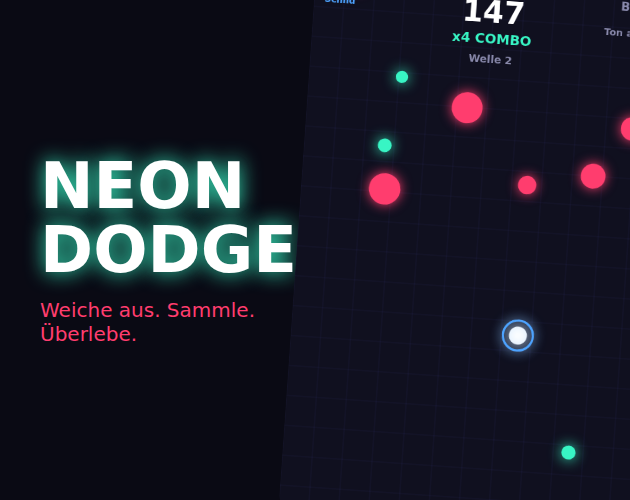
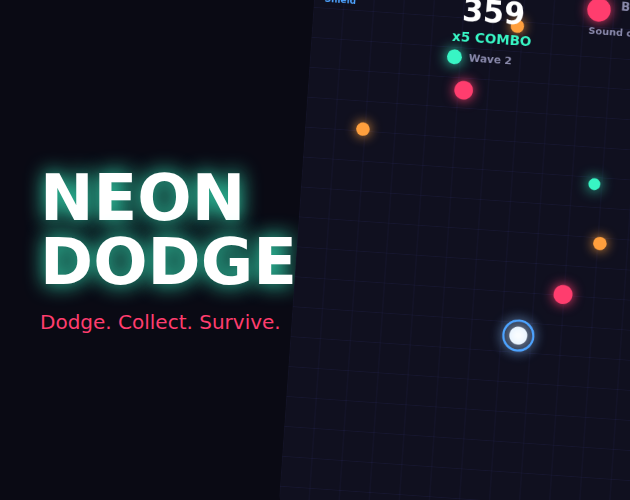
Translate game, cover and itch.io texts to English
Claude-Session: https://claude.ai/code/session_01E5rt3pWNQ4N5fdCaZqhZuK

diff --git a/index.html b/index.html
@@ -1,5 +1,5 @@
 <!doctype html>
-<html lang="de">
+<html lang="en">
 <head>
 <meta charset="utf-8">
 <meta name="viewport" content="width=device-width, initial-scale=1, user-scalable=no">
@@ -13,8 +13,8 @@
 <canvas id="c"></canvas>
 <script>
 "use strict";
-// Neon Dodge: weiche Gegnern aus, sammle Orbs, baue Combos auf.
-// Steuerung: Maus / Touch bewegt den Spieler, Pfeiltasten/WASD gehen auch.
+// Neon Dodge: dodge enemies, collect orbs, build combos.
+// Controls: mouse / touch moves the player, arrow keys/WASD work too.
 
 const W = 480, H = 720;                 // logische Spielgroesse
 const canvas = document.getElementById("c");
@@ -312,32 +312,32 @@ function draw() {
     text(String(Math.floor(score)), W / 2, 56, 40);
     if (combo > 1) text("x" + combo + " COMBO", W / 2, 84, 18, "#38f5c4");
     text("Best " + best, W - 14, 28, 16, "#8888aa", "right");
-    text("Welle " + wave, W / 2, 110, 14, "#8888aa");
-    if (waveBanner > 0) { ctx.globalAlpha = Math.min(1, waveBanner); text("WELLE " + wave + "!  +100", W / 2, 200, 30, "#ffd23d"); ctx.globalAlpha = 1; }
-    if (shieldT > 0) { ctx.fillStyle = "#4da3ff"; ctx.fillRect(14, 20, 80 * shieldT / 5, 6); text("Schild", 14, 44, 12, "#4da3ff", "left"); }
-    if (slowT > 0) { ctx.fillStyle = "#ffd23d"; ctx.fillRect(14, 58, 80 * slowT / 5, 6); text("Zeitlupe", 14, 82, 12, "#ffd23d", "left"); }
+    text("Wave " + wave, W / 2, 110, 14, "#8888aa");
+    if (waveBanner > 0) { ctx.globalAlpha = Math.min(1, waveBanner); text("WAVE " + wave + "!  +100", W / 2, 200, 30, "#ffd23d"); ctx.globalAlpha = 1; }
+    if (shieldT > 0) { ctx.fillStyle = "#4da3ff"; ctx.fillRect(14, 20, 80 * shieldT / 5, 6); text("Shield", 14, 44, 12, "#4da3ff", "left"); }
+    if (slowT > 0) { ctx.fillStyle = "#ffd23d"; ctx.fillRect(14, 58, 80 * slowT / 5, 6); text("Slow-mo", 14, 82, 12, "#ffd23d", "left"); }
   } else if (state === "menu") {
     text("NEON DODGE", W / 2, 240, 52, "#ffffff");
-    text("Sammle gruene Orbs", W / 2, 310, 20, "#38f5c4");
-    text("Weiche den roten aus", W / 2, 340, 20, "#ff3d6e");
-    text("S = Schild   Z = Zeitlupe", W / 2, 372, 16, "#ffd23d");
-    text("Tippen / Klicken zum Starten", W / 2, 450, 22);
-    text("Maus, Touch oder Pfeiltasten/WASD  (P = Pause)", W / 2, 472, 15, "#8888aa");
+    text("Collect green orbs", W / 2, 310, 20, "#38f5c4");
+    text("Dodge the red ones", W / 2, 340, 20, "#ff3d6e");
+    text("S = Shield   Z = Slow-mo", W / 2, 372, 16, "#ffd23d");
+    text("Tap / click to start", W / 2, 450, 22);
+    text("Mouse, touch or arrows/WASD  (P = Pause)", W / 2, 472, 15, "#8888aa");
     if (best) text("Best " + best, W / 2, 540, 22, "#8888aa");
   } else {
     text("GAME OVER", W / 2, 260, 48, "#ff3d6e");
     text("Score " + Math.floor(score), W / 2, 330, 32);
-    text(score >= best && best > 0 ? "Neuer Highscore!" : "Best " + best, W / 2, 372, 20, "#38f5c4");
-    if (overT > 0.6) text("Tippen fuer neuen Versuch", W / 2, 460, 20);
+    text(score >= best && best > 0 ? "New high score!" : "Best " + best, W / 2, 372, 20, "#38f5c4");
+    if (overT > 0.6) text("Tap to try again", W / 2, 460, 20);
   }
 }
 
 function drawOverlay() {
-  if (state !== "over") text(muted ? "Ton aus (M)" : "Ton an (M)", W - 14, 62, 13, "#8888aa", "right");
+  if (state !== "over") text(muted ? "Sound off (M)" : "Sound on (M)", W - 14, 62, 13, "#8888aa", "right");
   if (paused) {
     ctx.fillStyle = "rgba(10,10,20,0.75)"; ctx.fillRect(0, 0, W, H);
     text("PAUSE", W / 2, 330, 48);
-    text("Tippen oder P zum Weiterspielen", W / 2, 380, 18, "#8888aa");
+    text("Tap or press P to resume", W / 2, 380, 18, "#8888aa");
   }
 }
 

diff --git a/itch/DESCRIPTION.md b/itch/DESCRIPTION.md
@@ -1,20 +1,20 @@
-# itch.io Seite: Texte zum Kopieren
+# itch.io page: copy-paste texts
 
 **Title:** Neon Dodge
 **Short description / tagline:** Fast-paced neon arcade: dodge, collect, survive. How long can you last?
-**Kind of project:** HTML (playable in browser)
-**Viewport size:** 480 x 720 (portrait). Aktiviere "Mobile friendly" und "Fullscreen button".
-**Genre:** Arcade, **Tags:** arcade, neon, dodge, endless, highscore, mobile, casual, singleplayer
-**Pricing:** "$0 or donate" (Spender moeglich) oder fester Preis, z. B. 2 USD
+**Kind of project:** HTML
+**Viewport size:** 480 x 720 (portrait). Enable "Mobile friendly" and "Fullscreen button".
+**Genre:** Action, **Tags:** arcade, neon, dodge, endless, highscore, mobile, casual, singleplayer
+**Pricing:** "$0 or donate" or a fixed price
 **Cover image:** itch/cover.png (630x500), **Screenshots:** itch/screenshot1.png
 
-## Beschreibung
-Neon Dodge ist ein schnelles Arcade-Spiel fuer zwischendurch.
+## Description
+Neon Dodge is a fast arcade game for quick sessions.
 
-- Bewege dich mit Maus, Touch oder Pfeiltasten/WASD
-- Sammle gruene Orbs und baue Combos bis x10 auf
-- Weiche roten Kugeln, lila Tanks und verfolgenden Seekern aus
-- Schnapp dir Schild (S) und Zeitlupe (Z)
-- Jede Welle wird schneller, schlage deinen Highscore!
+- Move with mouse, touch or arrow keys/WASD
+- Collect green orbs and build combos up to x10
+- Dodge red balls, purple tanks and homing seekers
+- Grab the Shield (S) and Slow-mo (Z) power-ups
+- Every wave gets faster. Beat your high score!
 
-Steuerung: Maus/Touch/Pfeiltasten/WASD, P = Pause, M = Ton an/aus.
+Controls: mouse/touch/arrows/WASD, P = pause, M = sound on/off.

diff --git a/README.md b/README.md
@@ -1,6 +1,6 @@
 # Neon Dodge
 
-Kleines Arcade-Spiel (eine Datei, keine Abhaengigkeiten). Weiche roten Kugeln aus, sammle gruene Orbs, baue Combos auf.
+Small arcade game (single file, no dependencies). Dodge red balls, collect green orbs, build combos.
 
-- Lokal testen: `index.html` im Browser oeffnen
-- Auf itch.io: `index.html` in eine ZIP packen und als "HTML5" hochladen
+- Test locally: open `index.html` in a browser
+- itch.io: run `itch/build.sh` and upload `dist/neon-dodge.zip` as an HTML5 game
